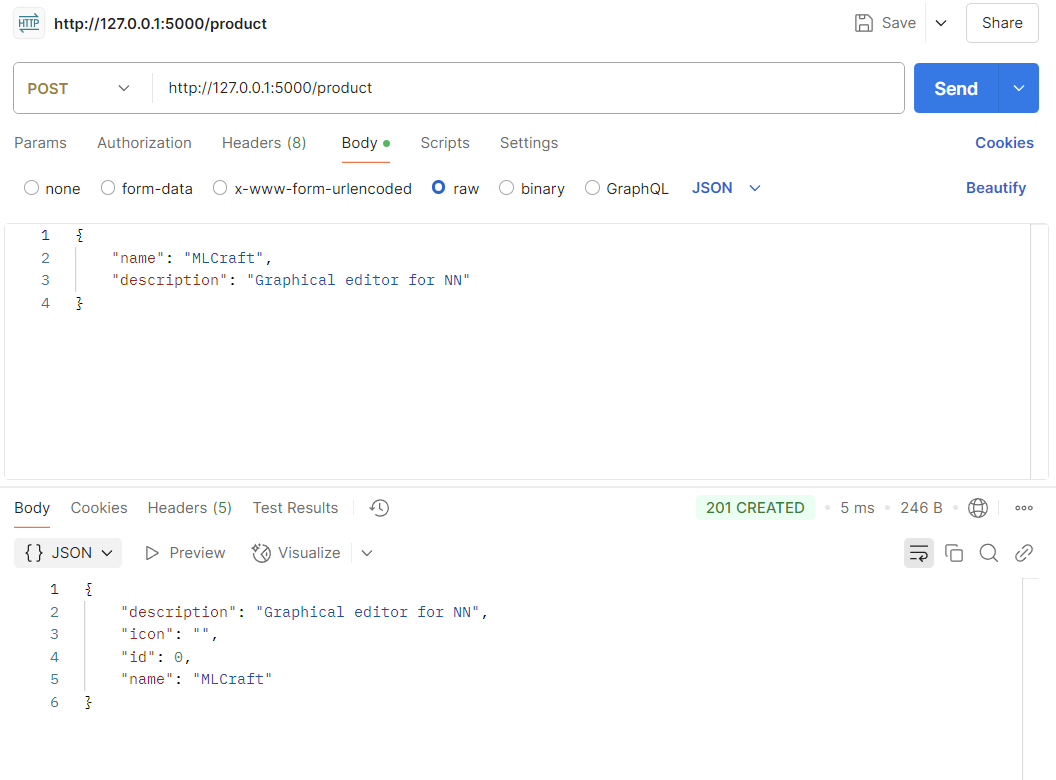
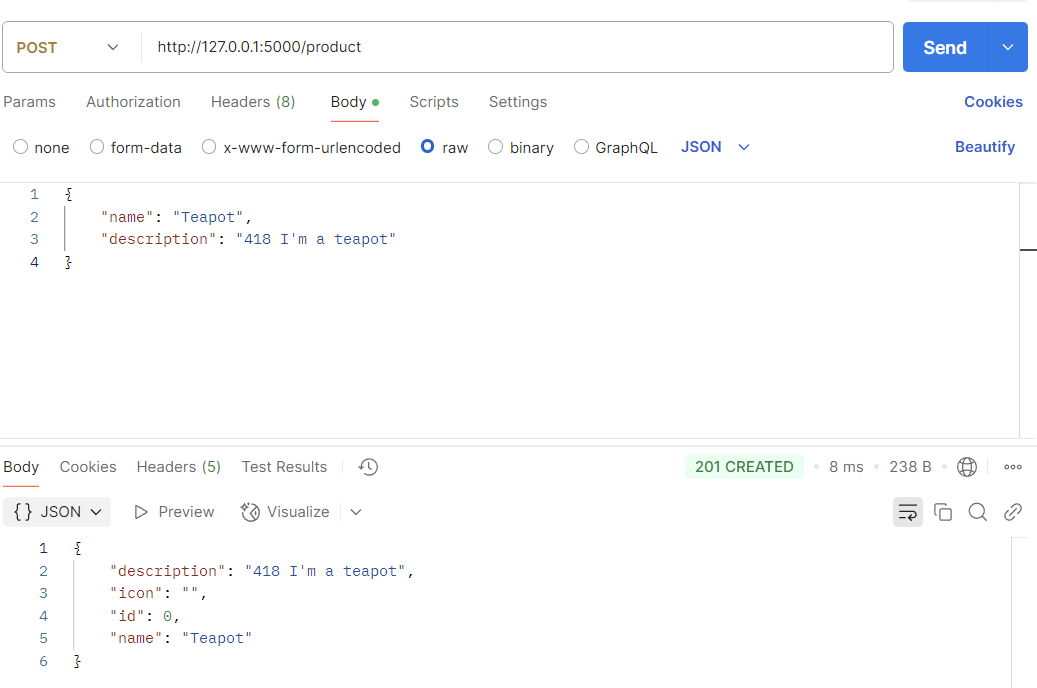
Update readme

diff --git a/lab02/lab02.md b/lab02/lab02.md
@@ -62,7 +62,19 @@
 запросы и ответы со стороны сервиса для **всех** его операций.
 
 #### Демонстрация работы
-todo
+Сначала положим два объекта
+![alt text](server/postman screenshots/post_1.png)
+![alt text](<server/postman screenshots/post_2.png>)
+Попробуем получить существующий и не существующий объект
+![alt text](<server/postman screenshots/get_1.png>)
+![alt text](<server/postman screenshots/get_2.png>)
+Обновим описание второго объекта
+![alt text](<server/postman screenshots/put.png>)
+Выведем все объекты
+![alt text](<server/postman screenshots/get_all_1.png>)
+Удалим первый объект, после чего выведем все объекты снова
+![alt text](<server/postman screenshots/delete.png>)
+![alt text](<server/postman screenshots/get_all_2.png>)
 
 ### Задание В (4 балла)
 Пусть ваш продукт также имеет иконку (небольшую картинку). Формат иконки (картинки) может
@@ -84,7 +96,14 @@ todo
 ```
 
 #### Демонстрация работы
-todo
+Создадим объекты
+![alt text](<server/postman screenshots/post_image_1.png>)
+![alt text](<server/postman screenshots/post_image_2.png>)
+Добавим ему иконку
+![alt text](<server/postman screenshots/post_image_3.png>)
+Попробуем получить иконку у него и у объекта без иконки
+![alt text](<server/postman screenshots/get_image_1.png>)
+![alt text](<server/postman screenshots/get_image_2.png>)
 
 ---
 
